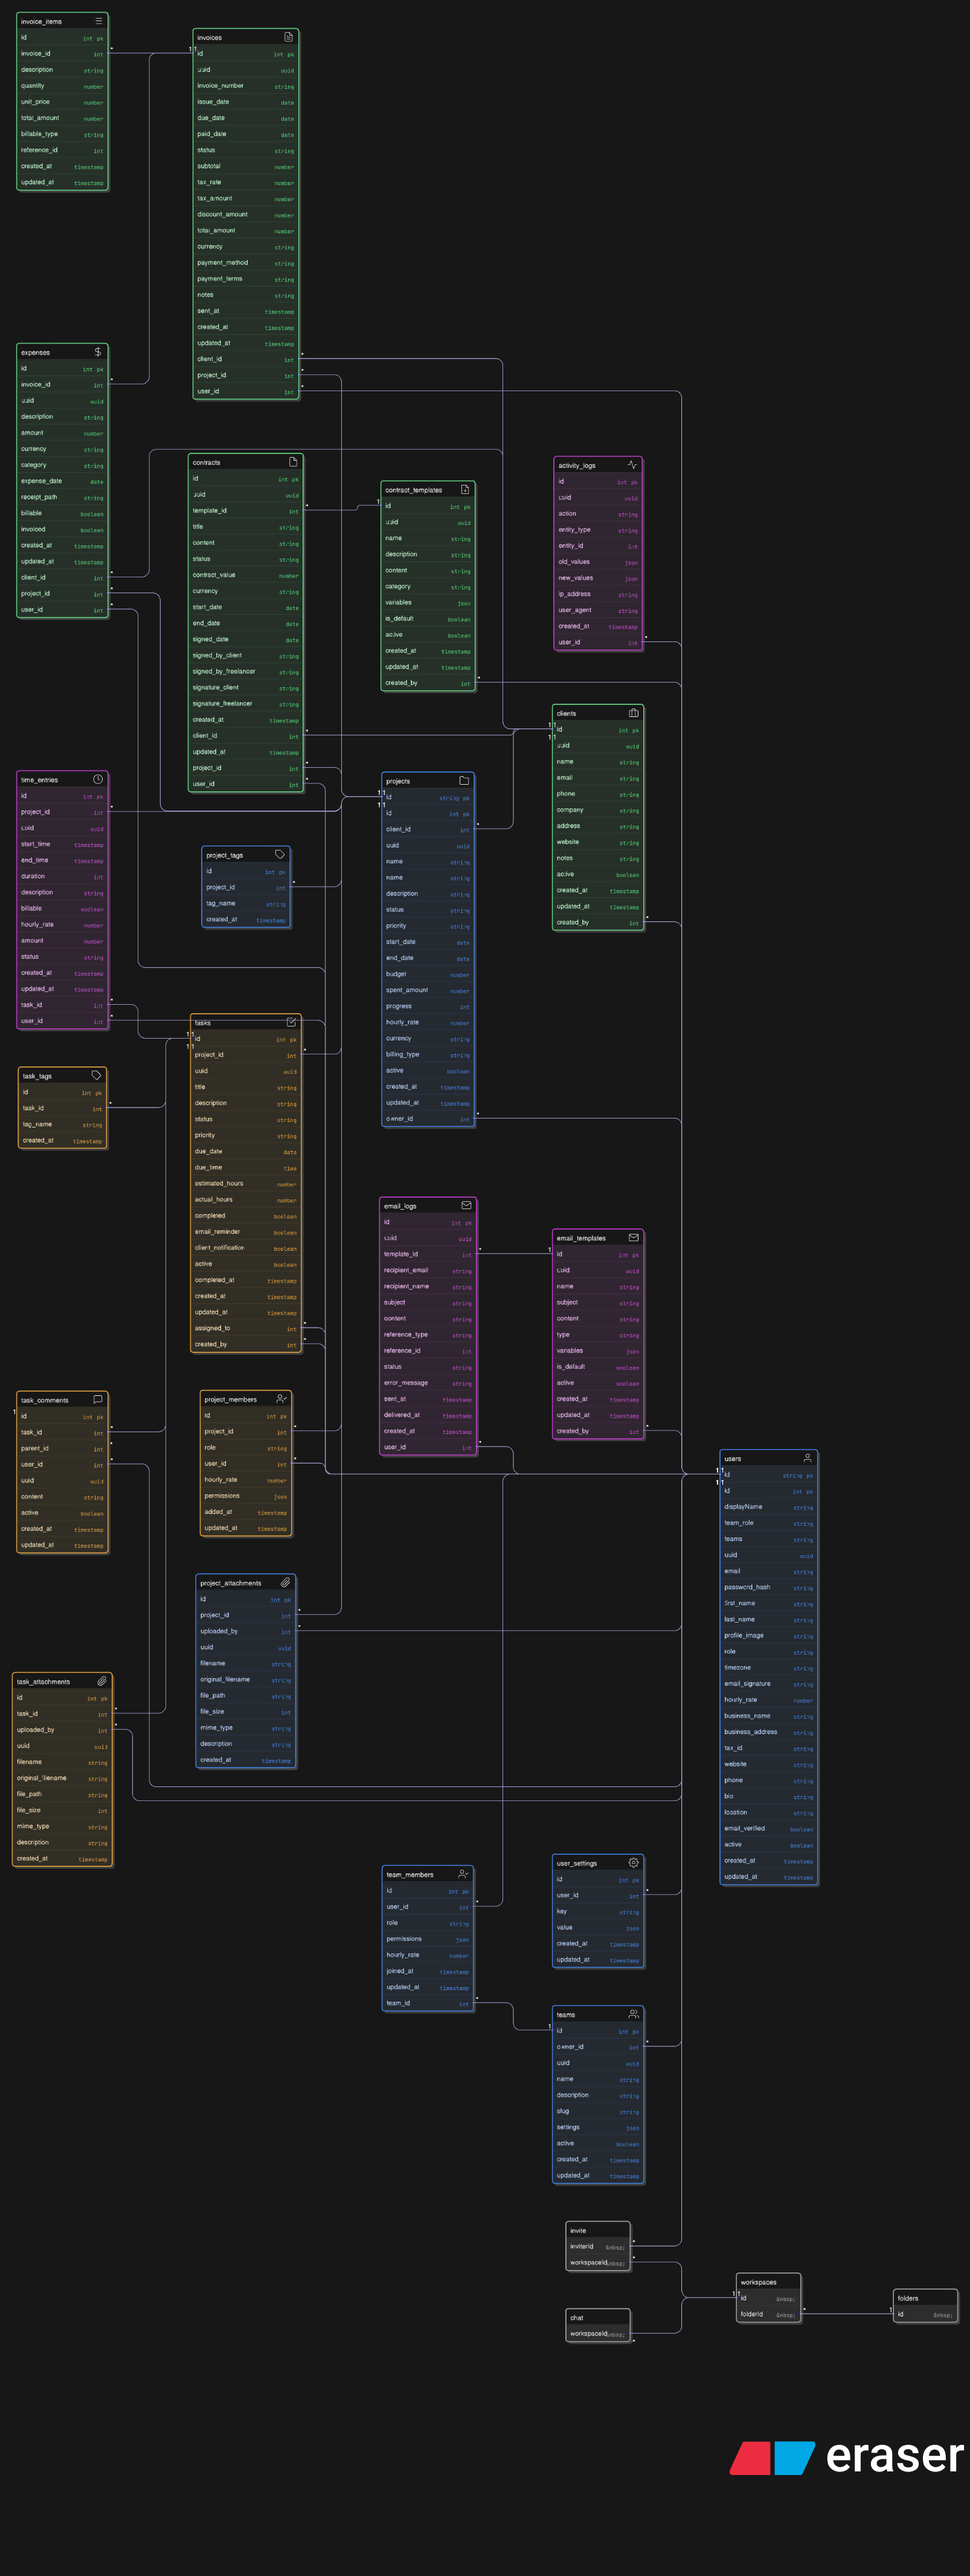
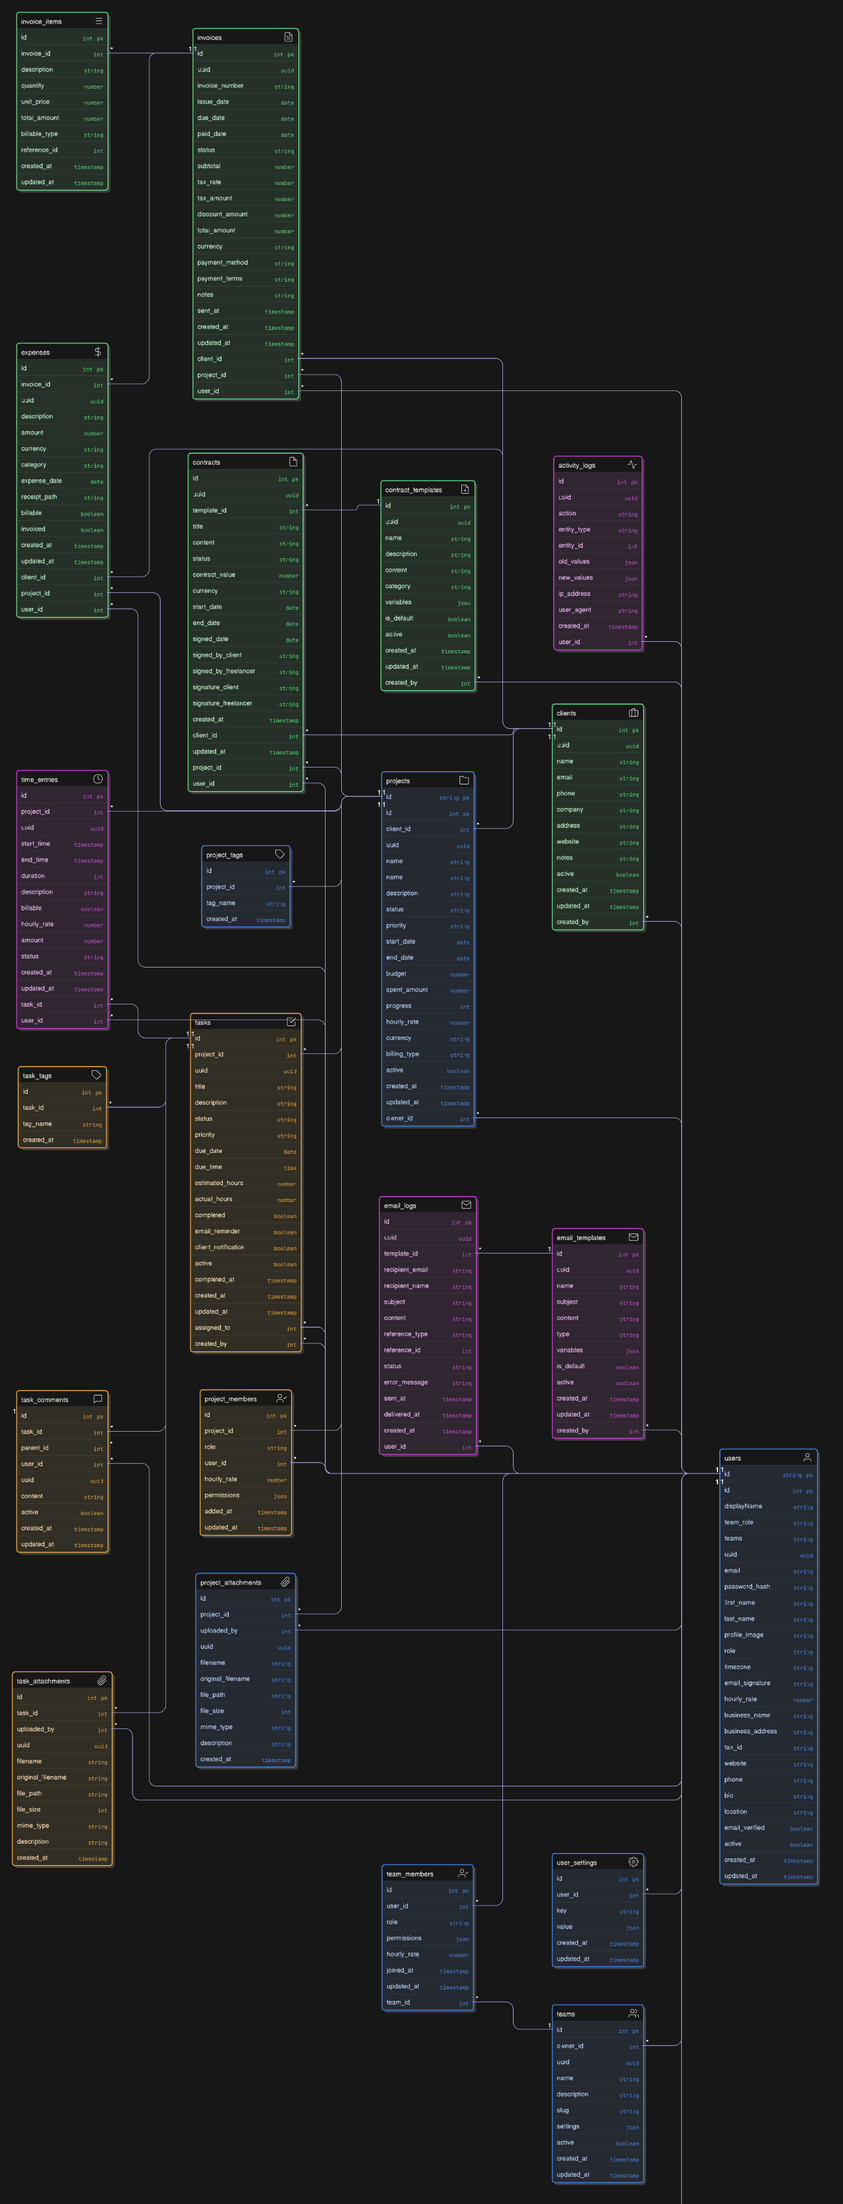
Update Readme file

diff --git a/README.md b/README.md
@@ -63,9 +63,13 @@
 | --------------------------------------- | ----------------------------------------- |
 | ![Invoices](./Readme/demo/invoices.png) | ![Contracts](./Readme/demo/contracts.png) |
 
-| Ai Contracts                              |
+| Ai Contracts                              | CSV Export Report                  |
+| ----------------------------------------- | ---------------------------------- |
+| ![Invoices](./Readme/demo/aiContract.gif) | ![Invoices](./Readme/demo/CSV.gif) |
+
+| New Invoice                               |
 | ----------------------------------------- |
-| ![Invoices](./Readme/demo/aiContract.gif) |
+| ![Invoices](./Readme/demo/newInvoice.gif) |
 
 ### AI Automation
 
